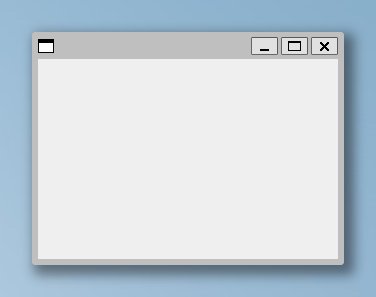
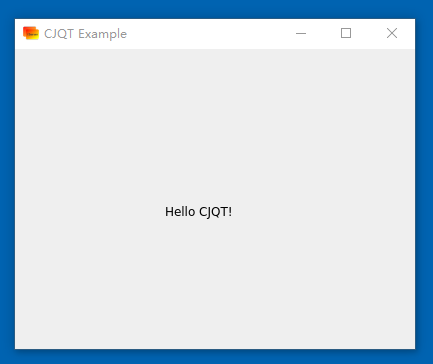
完善示例

diff --git a/src/hello.qml b/src/hello.qml
@@ -3,14 +3,14 @@ import QtQuick.Controls 1.4
 
 ApplicationWindow {
     id: app
-    title: "CJQT QRC Example"
-    width: 600; height: 400
+    title: "CJQT QML Example"
+    width: 400; height: 300
     color: "lightgray"
     Component.onCompleted: visible = true
 
     Text {
-        text: "Hello CJQT!\nbinding by cangjie"
-        y: 30
+        text: "Hello CJQT for QML!"
+        y: 120
         anchors.horizontalCenter: app.contentItem.horizontalCenter
         font.pointSize: 24; font.bold: true
     }

diff --git a/native/src/gui/palette.cpp b/native/src/gui/palette.cpp
@@ -1,0 +1,27 @@
+#include <QPalette>
+
+extern "C"
+{
+    long nativePaletteCreate()
+    {
+        return reinterpret_cast<long>(new QPalette());
+    }
+
+    long nativePaletteCreateForColor(long colorPtr)
+    {
+        QColor *color = reinterpret_cast<QColor *>(static_cast<uintptr_t>(colorPtr));
+        return reinterpret_cast<long>(new QPalette(*color));
+    }
+
+    long nativePaletteCreateForPalette(long palettePtr)
+    {
+        QPalette *palette = reinterpret_cast<QPalette *>(static_cast<uintptr_t>(palettePtr));
+        return reinterpret_cast<long>(new QPalette(*palette));
+    }
+
+    void nativePaletteDelete(long ptr)
+    {
+        QPalette *instance = reinterpret_cast<QPalette *>(static_cast<uintptr_t>(ptr));
+        delete instance;
+    }
+}

diff --git a/native/src/widgets/widget.cpp b/native/src/widgets/widget.cpp
@@ -1,4 +1,5 @@
 #include "widget.h"
+#include <QPalette>
 
 extern "C"
 {
@@ -126,5 +127,18 @@ extern "C"
     {
         CjQtWidget *instance = reinterpret_cast<CjQtWidget *>(static_cast<uintptr_t>(ptr));
         instance->repaint();
+    }
+
+    void nativeWidgetSetPalette(long ptr, long palettePtr)
+    {
+        QWidget *instance = reinterpret_cast<QWidget *>(static_cast<uintptr_t>(ptr));
+        QPalette *palette = reinterpret_cast<QPalette *>(static_cast<uintptr_t>(palettePtr));
+        instance->setPalette(*palette);
+    }
+
+    void nativeWidgetSetAutoFillBackground(long ptr, int enabled)
+    {
+        QWidget *instance = reinterpret_cast<QWidget *>(static_cast<uintptr_t>(ptr));
+        instance->setAutoFillBackground(enabled == 1);
     }
 }

diff --git a/README.md b/README.md
@@ -18,6 +18,8 @@ Qt是一个跨平台的C++图形开发框架，是目前主流的跨平台GUI库
 
 CjQt是Qt的仓颉语言绑定，提供仓颉语言风格的Qt类和函数的API封装。
 
+项目基于QT5.14.2版本构建，在wsl2+Ubuntu20.04上测试
+
 ### 路线
 
 - 近期目标：实现Demo运行，实现俄罗斯方块游戏
@@ -80,7 +82,23 @@ CjQt是Qt的仓颉语言绑定，提供仓颉语言风格的Qt类和函数的API
 
 ### 编译
 
-编译描述和具体shell命令
+下载QT文件[qt-opensource-linux-x64-5.14.2.run](https://download.qt.io/archive/qt/5.14/5.14.2/)到安装目录
+
+
+安装QT
+```shell
+chmod +x qt-opensource-linux-x64-5.14.2.run
+./qt-opensource-linux-x64-5.14.2.run
+```
+
+配置环境变量
+```shell
+vim ~/.bashrc
+export QT_HOME=/home/wathinst/Qt5.14.2/5.14.2/gcc_64(自己的安装目录)
+source ~/.bashrc
+```
+
+编译项目源码
 
 ```shell
 ./native.make.sh
@@ -92,16 +110,25 @@ cpm build
 
 创建main.cj文件
 ```cangjie
-import qt.*
+import qt.gui.*
+import qt.widgets.*
 
 main() {
-    let app = QApplication()
-    let win = QMainWindow()
-    win.resize(300, 200)
+    QApplication.create()
+    let win = QWidget()
+    win.setWindowTitle("CJQT Example")
+    win.resize(400, 300)
+
+    let label = QLabel(win)
+    label.setGeometry(150, 150, 100, 24)
+    label.setText("Hello CJQT!")
+
     win.show()
-    app.exec()
+
+    QApplication.exec()
+
     win.delete()
-    app.delete()
+    QApplication.delete()
 }
 ```
 
@@ -142,15 +169,18 @@ ApplicationWindow {
 ```
 创建main.cj文件
 ```cangjie
-import qt.*
+import qt.gui.*
+import qt.widgets.*
 
 main() {
-    let app = QApplication()
+    QApplication.create()
     let engine = QQmlApplicationAngine()
     engine.loadUrl("./src/hello.qml")
-    app.exec()
+
+    QApplication.exec()
+
     engine.delete()
-    app.delete()
+    QApplication.delete()
 }
 ```
 
@@ -164,6 +194,41 @@ main() {
 
 <p align="center">
 <img src="./doc/assets/qml_demo.png" width="60%" >
+</p>
+
+
+### 俄罗斯方块游戏示例
+
+
+创建main.cj文件
+```cangjie
+import qt.gui.*
+import qt.widgets.*
+
+main() {
+    QApplication.create()
+
+    let box = TetrisWindow()
+    box.show()
+
+    QApplication.exec()
+
+    box.delete()
+
+    QApplication.delete()
+}
+```
+
+执行命令如下：
+
+```shell
+./run.sh
+```
+
+执行效果：
+
+<p align="center">
+<img src="./doc/assets/tetris_demo.png" width="60%" >
 </p>
 
 ## <img alt="" src="./doc/assets/readme-icon-contribute.png" style="display: inline-block;" width=3%/>参与贡献
